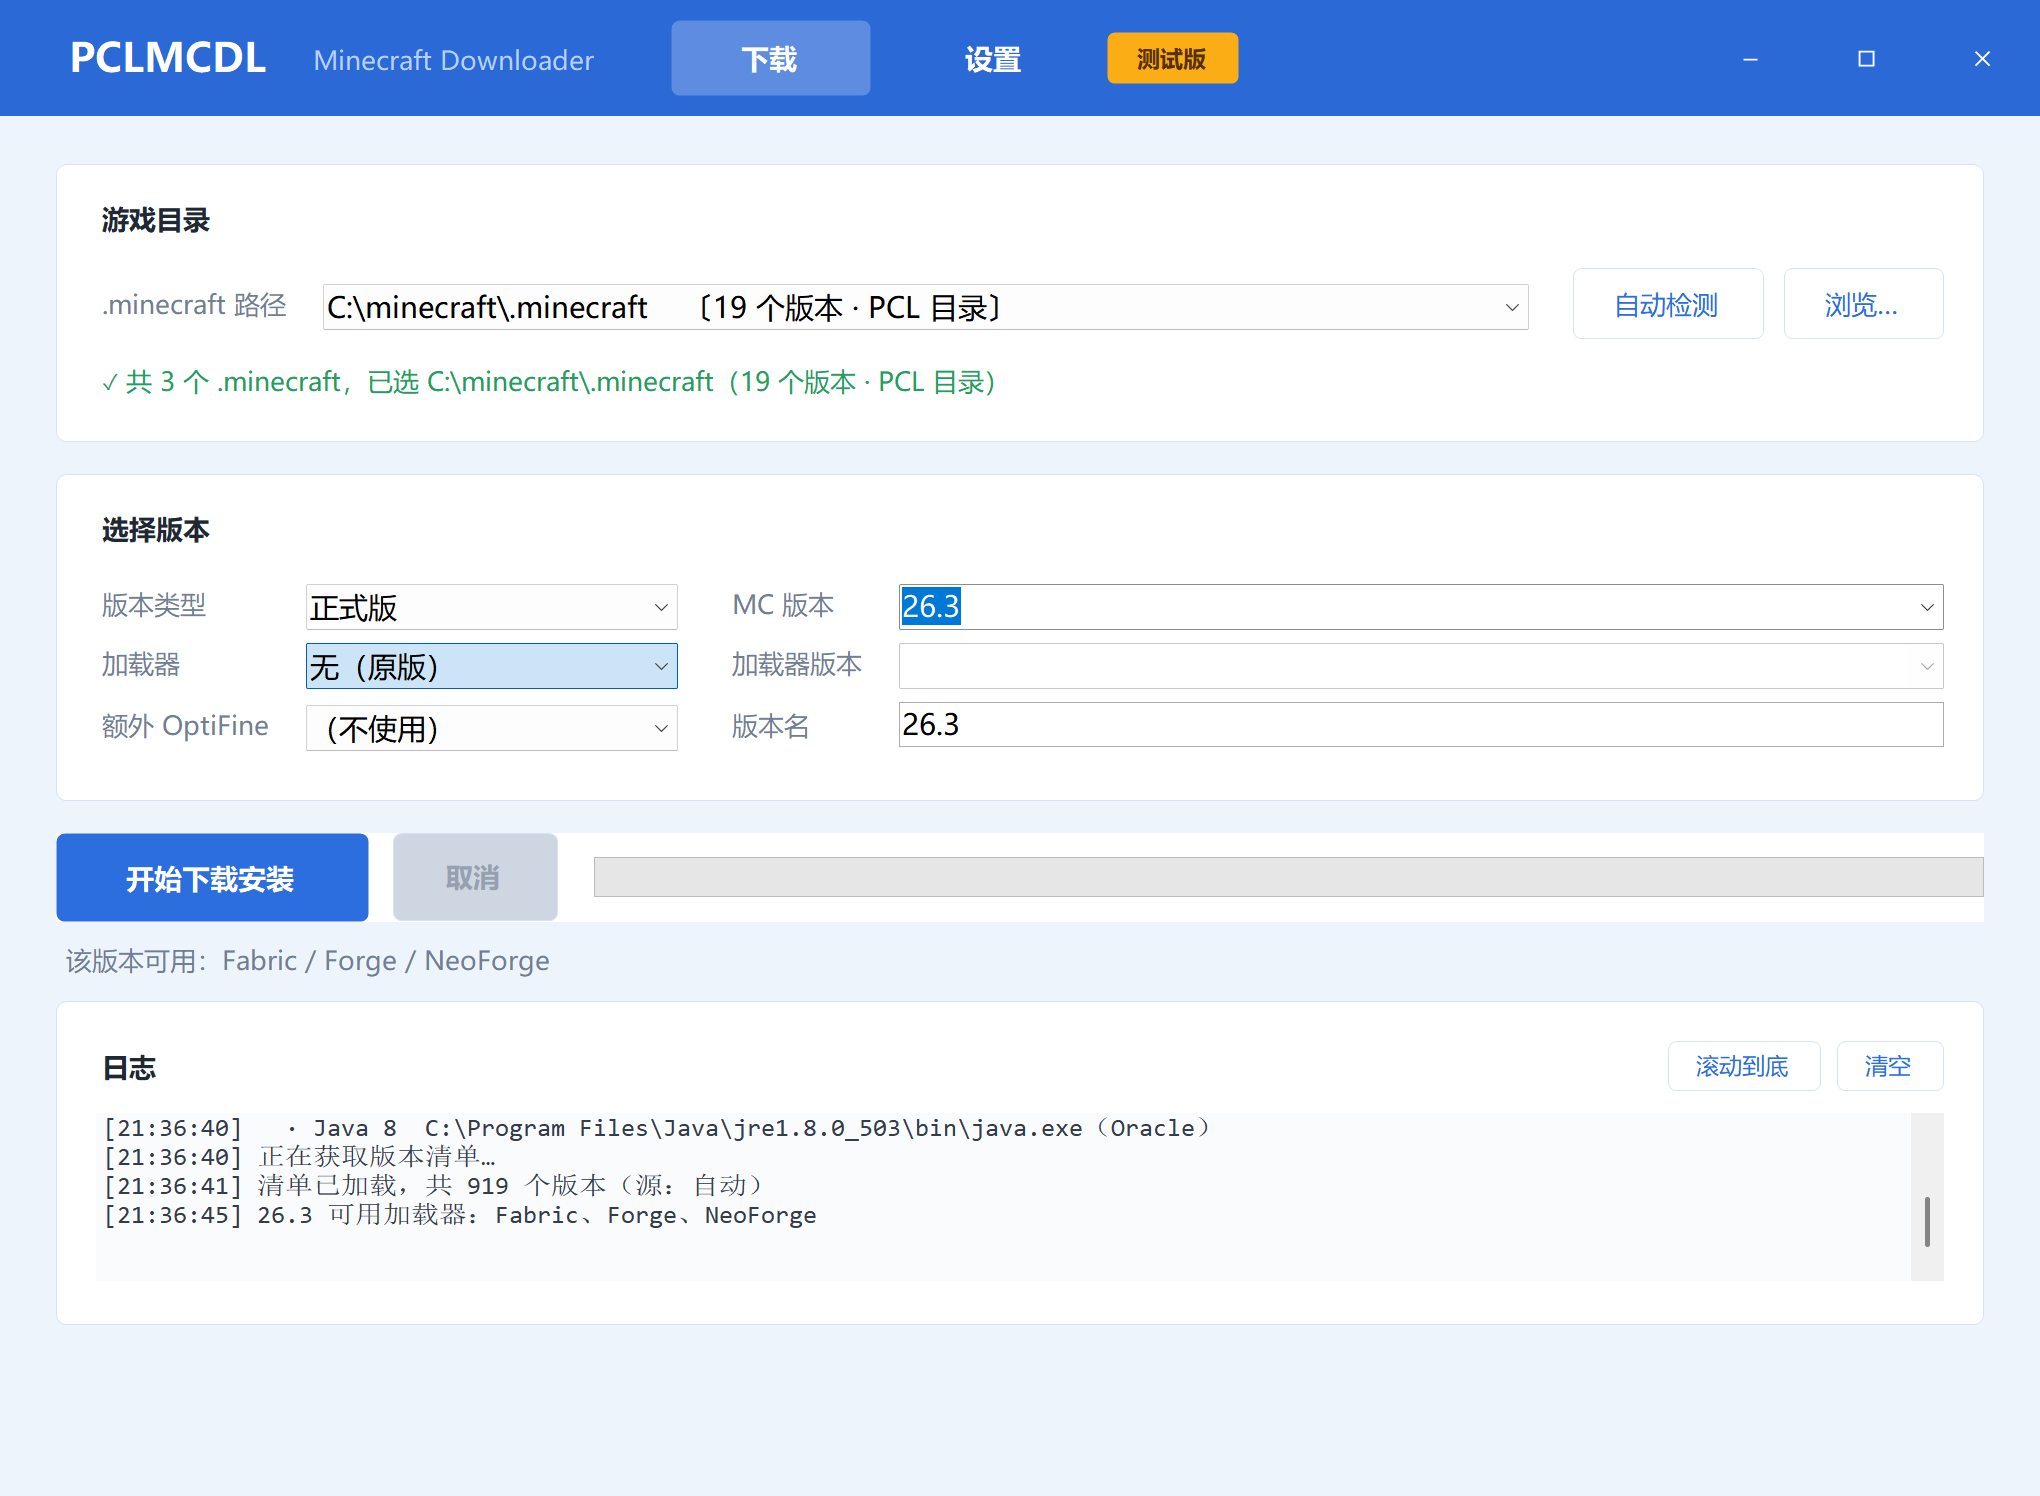
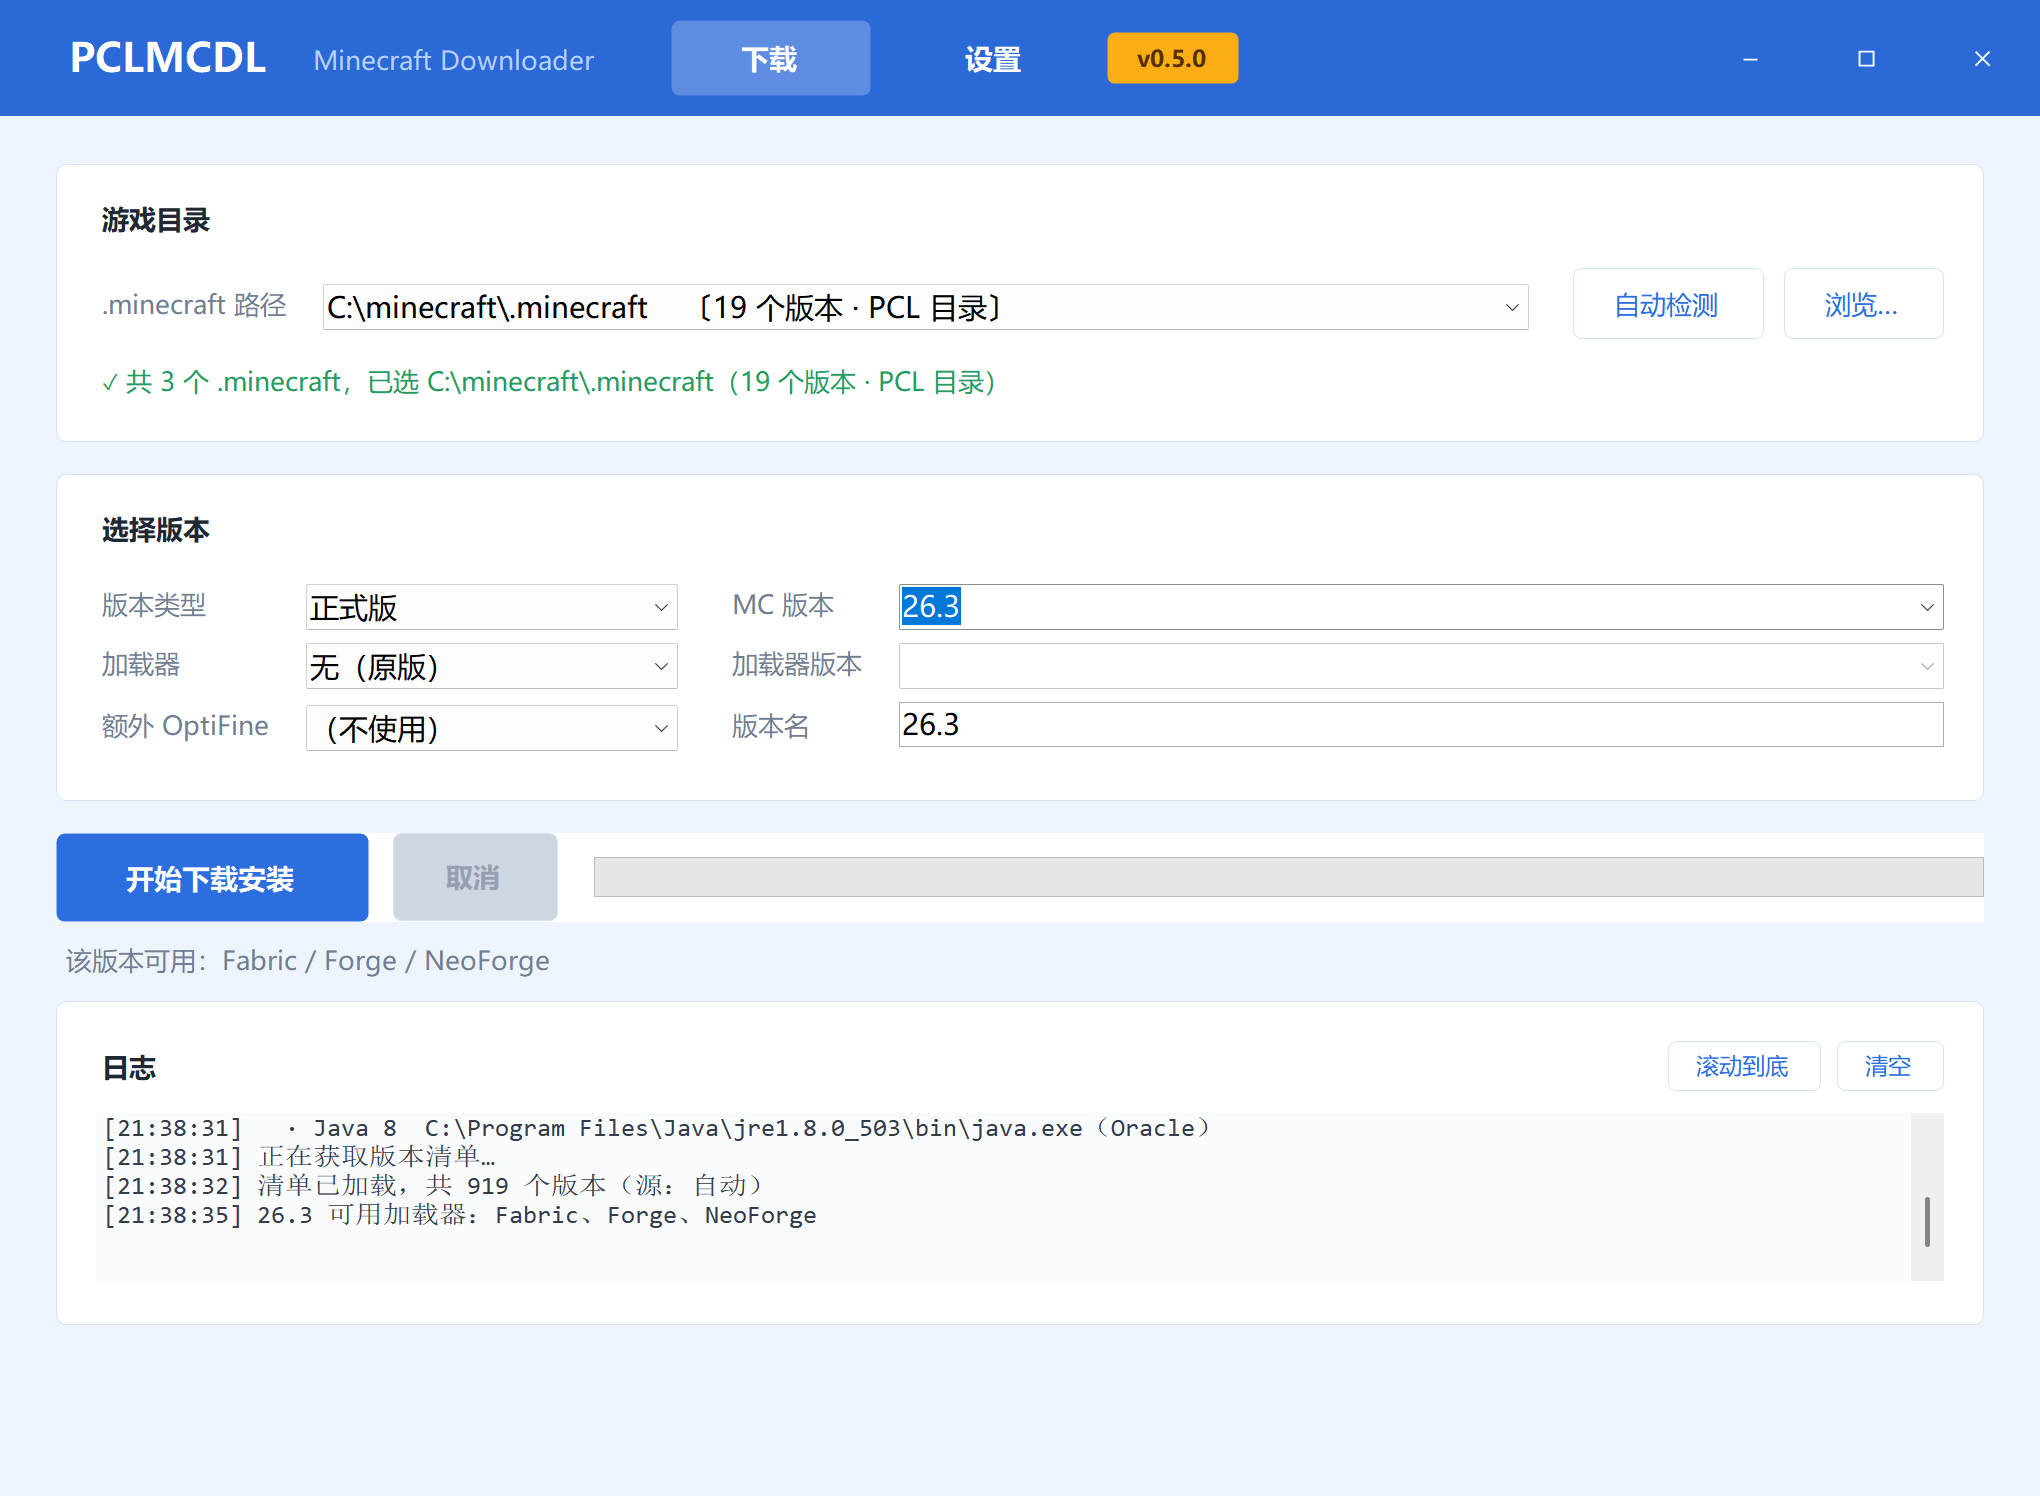
fix: 版本徽标与关于对话框改为读程序版本；README 修正 LiteLoader 拼写

Changed region(s): [[0.1235, 0.4305, 0.3397, 0.4612], [0.0926, 0.738, 0.1235, 0.7995], [0.5559, 0.0307, 0.5868, 0.0615]]

diff --git a/src/MainForm.cs b/src/MainForm.cs
@@ -168,6 +168,13 @@ public sealed class MainForm : Form
 
     // ============================================================ 标题栏
 
+    /// <summary>程序版本，取自 csproj &lt;Version&gt;，形如 0.5.0。</summary>
+    static string AppVersion()
+    {
+        var v = typeof(MainForm).Assembly.GetName().Version;
+        return v is null ? "0.0" : $"{v.Major}.{v.Minor}.{Math.Max(v.Build, 0)}";
+    }
+
     void BuildTitleBar()
     {
         _titleBar.Dock = DockStyle.Fill;
@@ -228,7 +235,7 @@ public sealed class MainForm : Form
 
         var badge = new TagBadge
         {
-            Text = "测试版",
+            Text = "v" + AppVersion(),
             Margin = Theme.Pad(6, 16, 0, 16),
         };
         left.Controls.AddRange(new Control[] { title, sub, _navDl, _navSet, badge });
@@ -687,7 +694,7 @@ public sealed class MainForm : Form
             Margin = new Padding(0),
             BackColor = Theme.Card,
         };
-        about.Controls.Add(AboutLine("版本 0.1α [测试版]", false));
+        about.Controls.Add(AboutLine($"版本 {AppVersion()}", false));
         about.Controls.Add(AboutLine("PCL 作者：龙腾猫跃", true));
         about.Controls.Add(AboutLink("赞助 PCL 作者（爱发电）：https://afdian.com/a/LTCat",
             "https://afdian.com/a/LTCat"));

diff --git a/README.md b/README.md
@@ -29,7 +29,7 @@
 ## 特色
 
 - 自动检测 .minecraft 和 Java 路径（也支持检测新安装PCL2时的空目录）；
-- 完整支持原版、加载器及 OptiFine 下载安装（LiteLoder暂不支持）；
+- 完整支持原版、加载器及 OptiFine 下载安装（LiteLoader 暂不支持）；
 - 选定 MC 版本后自动探测可用的加载器（会需要一小会儿），再列出该加载器的版本号；
 - 同名版本已存在时弹窗提示，可选「覆盖安装 / 重命名另存 / 取消」。
 
@@ -81,7 +81,7 @@ PCLMCDL.exe install 1.21.1 --loader neoforge --ver 21.1.80 --dir "D:\PCL2"
 
 ## 已知限制
 
-- 只负责下载与安装，**不启动游戏**，也不可以登录；
+- 只负责下载与安装，**不启动游戏**；
 - BMCLAPI 对高并发返回 403，预下载已限制到 8 并发并有退避重试；
 - OptiFine 官方站有 Cloudflare 保护，只能走 BMCLAPI 镜像；
 - 暂不支持 LiteLoader，其数据源停更，官方下载站不可用。
